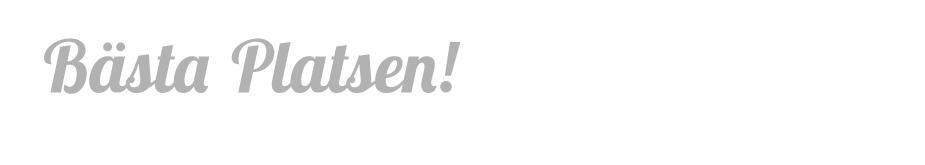
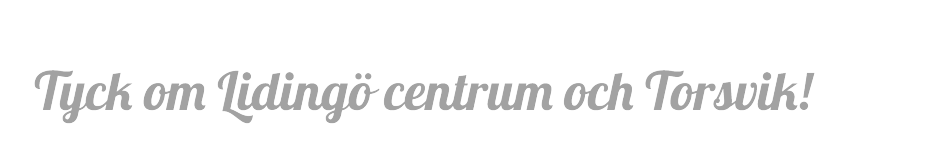
initial lidingo updates from josh

Changed region(s): [[0.0303, 0.2121, 0.8778, 0.7576]]

diff --git a/css/style.css b/css/style.css
@@ -147,7 +147,7 @@ div#logo h1{
 div#logo h2{
 	color: #222;
 	font-weight:normal;
-	margin:90px 0 0 0px;
+	margin:110px 0 0 0px;
 	font-size: 21px;
 	font-family: 'Ubuntu', sans-serif;
 	/*text-shadow: -1px 0 #333, 0 1px #333,

diff --git a/views/reports_submit.php b/views/reports_submit.php
@@ -88,11 +88,11 @@ foreach ($categories as $category)
 				<div class="report_row" >
 					<h4><?php echo Kohana::lang('ui_main.reports_title'); ?>
                    </h4>
-					<?php print form::textarea('incident_title', $form['incident_title'], ' rows="3" class="textarea long" placeholder="...t.e.x. fler sittplatser eller grönska..."'); ?>
+					<?php print form::textarea('incident_title', $form['incident_title'], ' rows="3" class="textarea long" placeholder="tex. fler sittplatser..."'); ?>
 				</div>
 				<div class="report_row">
 					<h4><?php echo Kohana::lang('ui_main.reports_description'); ?></h4>
-					<?php print form::textarea('incident_description', $form['incident_description'], ' rows="3" class="textarea long" placeholder="förklara varför ditt förslag är bra för de som använder platsen... vad du gör här eller vad du skulle vilja göra här."  ') ?>
+					<?php print form::textarea('incident_description', $form['incident_description'], ' rows="3" class="textarea long" placeholder="beskriv en positiv utveckling"  ') ?>
 				</div>
                
 				<div class="report_row" style="display:none" id="datetime_default">
@@ -323,7 +323,7 @@ Kvinna <br />
 				<!-- Photo Fields -->
 				<div id="divPhoto"  class="report_row">
                                     <h4><?php echo Kohana::lang('ui_main.reports_photos'); ?>
-                                    <span class="discreet" style="margin: 0 0 0 2em">jpg, gif eller png upp till 2 megabyte</span>
+                                    <span class="discreet" style="margin: 0 0 0 2em">jpg, gif eller png upp till 2 mb</span>
                                     </h4>
 					<?php
 						$this_div = "divPhoto";
@@ -407,11 +407,15 @@ Kvinna <br />
                                         <img id="submit-spinner" style="display: none"
                                              src="<?php echo url::site('themes/pps/images/progress.gif'); ?>" />
 					<input name="submit" type="submit" value="<?php echo Kohana::lang('ui_main.reports_btn_submit'); ?>" class="btn_submit" /> <br />
-                    <a class="photothumb" rel="lightbox-group1" href="/placemap/goteborg/themes/pps/images/regler.jpg" style="font-size:12px;">Allmänna regler</a>
+                    <a class="photothumb" rel="lightbox-group1" href="/placemap/goteborg/themes/pps/images/regler.jpg" style="font-size:12px;">Jag accepterar dessa publiceringsregler </a>
 				</div>
 			</div>
 			<div class="report_right sidebar-copy">
-                       <h5>Vilka platser i centrala Göteborg tycker du om? Vilka tycker du inte om? Vi vill veta vad du tycker, och varför du tycker som du gör. Därför genomför Göteborgs Stad en undersökning för att kunna utveckla offentliga platser i centrum. Det vi vill veta är vilka platser som används och vilka kvaliteter och brister som finns där. Du kan också ta del av andras inlägg och kommentera dem.</h5><h5>Resultatet av undersökningen kommer att användas i en Stadslivsanalys som håller på att tas fram av Stadsbyggnadskontoret, Trafikkontoret och Centrala Älvstaden. "Bästa platsen" kommer att finnas fram t.o.m. 12 februari.</h5>
+                       <h5>Hej! I Lidingö stad vill med den här webbsidan lära oss mer om hur Lidingöborna upplever Lidingö Centrum-Torsvik. Syftet är att inför planeringen av området få mer kunskap om hur olika platser används, upplevs och vilka kvaliteter som efterfrågas av Lidingöborna själva. Här kan du också ta del av andras inlägg och kommentera dessa.</h5>
+ 
+<h5>Webbsidan kommer att vara öppen t.o.m. 13 april. Som hjälp i detta arbete har kommunen anlitat konsultföretaget Spacescape och organisationen Project for Public Spaces.</h5>
+ 
+<h5><a href="http://www.lidingo.se/toppmeny/byggabomiljo/utvecklingochplanering/centrumtorsvik.4.6c15e7f1343e395c86800013.html">Mer om planarbetet med Centrum Torsvik</a></h5>
                          
 			</div>
 		</div>

diff --git a/views/header.php b/views/header.php
@@ -18,7 +18,7 @@
 <meta property="og:title" content="Bästa Platsen!" />
 <meta property="og:type" content="website" />
 <?php if (!isset($og_description) OR !$og_description): ?>
-<?php $og_description = "Hjälp oss hitta det bästa och sämsta med centrala Göteborgs platser"; ?>
+<?php $og_description = "Hjälp oss hitta kvaliteter och brister i centrala Lidingö"; ?>
 <?php endif; ?>
 <meta property="og:description" content="<?php echo $og_description; ?>" />
 <meta property="og:url" content="<?php echo url::base() . url::current() ?>" /> 
@@ -53,13 +53,13 @@
 			<div id="searchbox" style="float:left;">
             
          <!-- AddThis Button BEGIN -->
-<div class="addthis_toolbox addthis_default_style " addthis:url="http://bit.ly/z6oMPi" addthis:title="Hjälp oss hitta det bästa och sämsta med centrala Göteborgs platser. #StadslivGöteborg">
+<div class="addthis_toolbox addthis_default_style " addthis:url="http://bit.ly/yWgE28" addthis:title="Hjälp oss hitta kvaliteter och brister i centrala Lidingö. #lidingocentrumtorsvik">
 <a class="addthis_button_tweet" tw:via=""></a>
 <a class="addthis_button_google_plusone" g:plusone:size="medium"></a>
 <a class="addthis_counter addthis_pill_style"></a>
 </div>
 <script type="text/javascript" src="http://s7.addthis.com/js/300/addthis_widget.js#pubid=ra-4dcac49b08b3e729"></script>
-<!-- AddThis Button END --><br /><iframe src="//www.facebook.com/plugins/like.php?href=http%3A%2F%2Fpps.org%2Fplacemap%2Fgoteborg%2Freports%2Fsubmit&amp;send=false&amp;layout=box_count&amp;width=450&amp;show_faces=false&amp;action=like&amp;colorscheme=light&amp;font&amp;height=90" scrolling="no" frameborder="0" style="border:none; overflow:hidden; width:50px; height:90px; padding-top:30px" allowTransparency="true"></iframe>
+<!-- AddThis Button END --><br /><iframe src="//www.facebook.com/plugins/like.php?href=http%3A%2F%2Fpps.org%2Fplacemap%2Flidingo%2Freports%2Fsubmit&amp;send=false&amp;layout=box_count&amp;width=450&amp;show_faces=false&amp;action=like&amp;colorscheme=light&amp;font&amp;height=90" scrolling="no" frameborder="0" style="border:none; overflow:hidden; width:50px; height:90px; padding-top:30px" allowTransparency="true"></iframe>
 				<!-- languages -->
    <?php // echo $languages;?>
 				<!-- / languages -->

diff --git a/views/reports_submit_thanks.php b/views/reports_submit_thanks.php
@@ -12,9 +12,9 @@
 				<br />
 
 				<p style="font-size:14px">Fler sätt att delta:<br />
-				  <ul><li>Du kan berätta hur du upplever ytterligare en plats och <a href="../reports/submit">föreslå förbättringar</a></li>
+				  <ul><li>Betygsätt ytterligare en plats och <a href="../reports/submit">föreslå förbättringar</a></li>
                     <li>Kommentera andras idéer, kolla in <a href="../main">idékartan</a> eller <a href="../reports">idélistan</a>.</li></ul><br /> Under tiden kan du hjälpa till att sprida sidan genom att:
-                   <ul><li>Dela den här på <span class='st_facebook_button' displayText='Facebook'></span> eller  <span class='st_twitter_button' displayText='Tweet' st_url="<?php echo urlencode(url::base() . url::current()) ?>" st_title="Vilken är den bästa eller sämsta platsen i centrala Göteborg? Kolla dessa platser och lägg till din egna!"></span> för att få dina vänner att tycka till om staden.</li>
+                   <ul><li>Dela den här på <span class='st_facebook_button' displayText='Facebook'></span> eller  <span class='st_twitter_button' displayText='Tweet' st_url="<?php echo urlencode(url::base() . url::current()) ?>" st_title="Hjälp oss hitta kvaliteter och brister i centrala Lidingö. #lidingocentrumtorsvik"></span> för att få dina vänner att tycka till om staden.</li>
                    <li>Blogga om denna enkät</li>
 <li>Be en vän skicka sina idéer och få dem publicerade</li>
                     </ul>

diff --git a/views/reports_view.php b/views/reports_view.php
@@ -48,7 +48,7 @@ if ($incident_person && ($incident_person->person_first || $incident_person->per
             <td><a href="" id="oloader_<?php echo $incident_id; ?>" class="rating_loading" ></a></td>
           </tr>
         </table>-->
-<span style="padding-right:10px;" class='st_twitter_vcount' displayText='Tweet' st_url="<?php echo urlencode(url::base() . url::current()) ?>" st_title="Vilken är den bästa eller sämsta platsen i centrala Göteborg? Lägg till din egna! #StadslivGöteborg"> </span>
+<span style="padding-right:10px;" class='st_twitter_vcount' displayText='Tweet' st_url="<?php echo urlencode(url::base() . url::current()) ?>" st_title="Hjälp oss hitta kvaliteter och brister i centrala Lidingö. #lidingocentrumtorsvik"> </span>
 <iframe src="http://www.facebook.com/plugins/like.php?href=<?php echo urlencode(url::base() . url::current()) ?>&amp;layout=standard&amp;show_faces=true&amp;width=292&amp;action=like&amp;font&amp;colorscheme=light&amp;height=55" scrolling="no" frameborder="0" style="border:none; overflow:hidden; width:292px; height:55px;" allowTransparency="true"></iframe>
 			</div>
             <!-- end twitter/facebook -->

diff --git a/views/footer.php b/views/footer.php
@@ -47,7 +47,7 @@
        <table border="0">
  
   <tr>
-  <td valign="top" width="250px" style="padding-left:20px; padding-right:20px; padding-bottom:20px;"><br /><a href="http://www.goteborg.se/wps/portal"><img style="margin-right:40px" src="<?php echo url::site('themes/pps/images/goteborgs-stad-logo.png'); ?>" ></a></td>
+  <td valign="top" width="250px" style="padding-left:20px; padding-right:20px; padding-bottom:20px;"><br /><a href="http://www.lidingo.se/toppmeny/byggabomiljo/utvecklingochplanering/centrumtorsvik.4.6c15e7f1343e395c86800013.html"><img style="margin-right:40px" src="<?php echo url::site('themes/pps/images/lidingo-logotype.png'); ?>" ></a></td>
   <td valign="top" width="150px" style="padding-left:20px; padding-right:20px; padding-bottom:20px;">Websidan är producerad av:<br />
     <br /><a href="http://www.pps.org"><img style="margin-right:40px" src="<?php echo url::site('themes/pps/images/PPS-logo.png'); ?>" ></a><br /><a href="http://www.spacescape.se"><img style="margin-right:40px" src="<?php echo url::site('themes/pps/images/spacescape-logo.png') ?>"></a></td>
     
